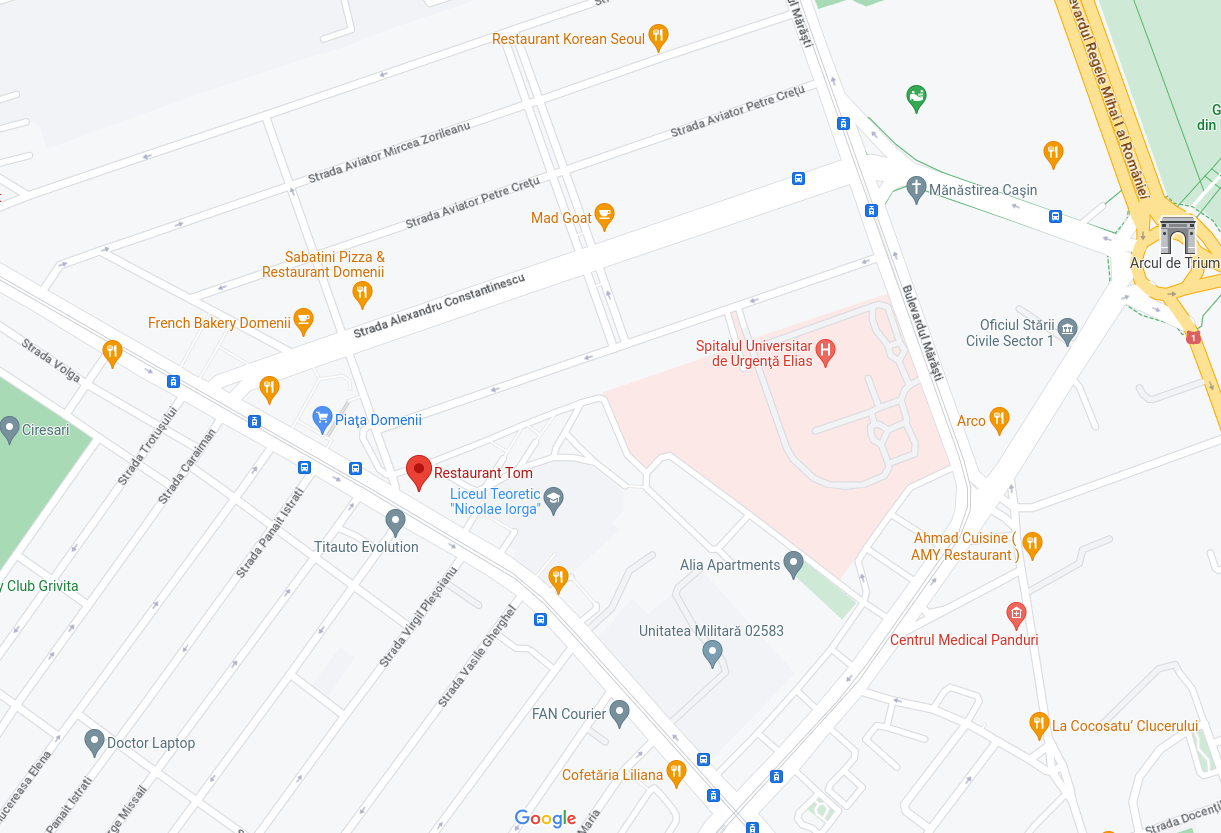
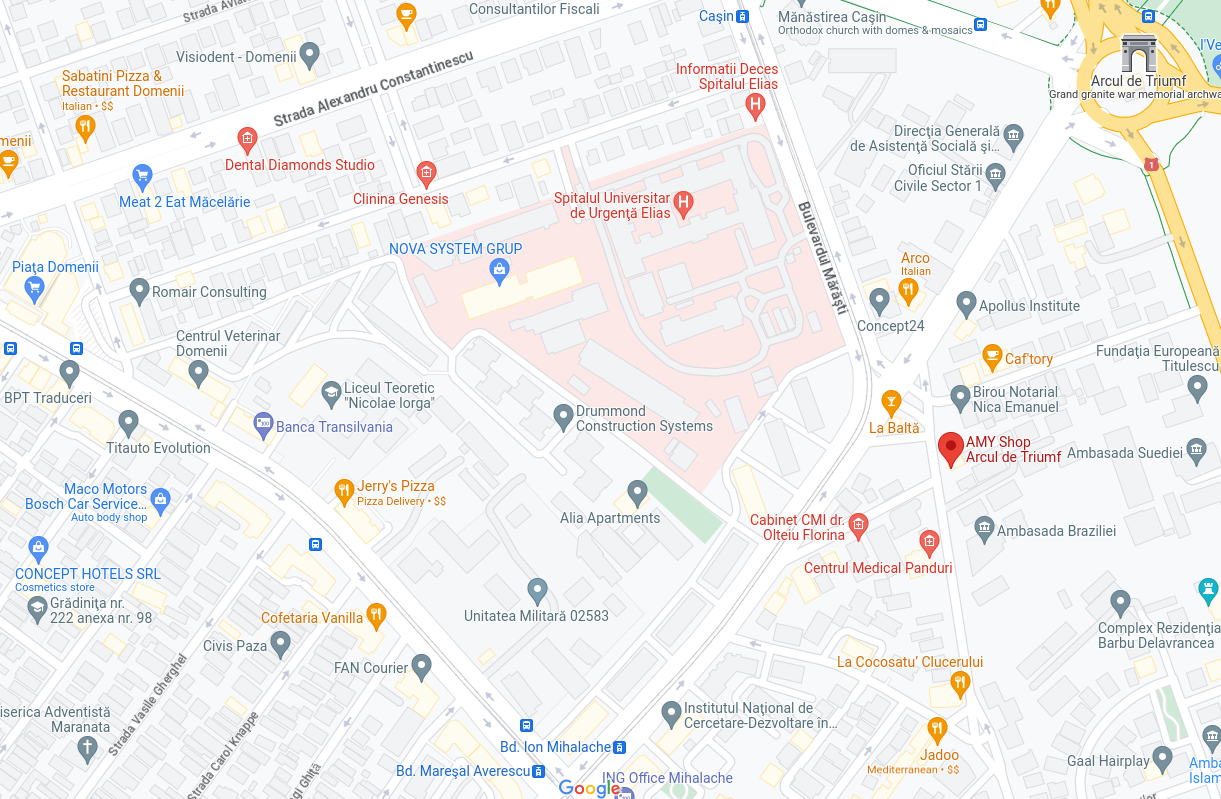
2023-05-20T00:55:33 CEST

diff --git a/site/index.md b/site/index.md
@@ -66,14 +66,14 @@ Registration closed. Please use our [contact form](/contact/) to message us and 
 
 <figure>
 
-<a href="https://www.google.com/maps/place/Restaurant+Tom/@44.4659986,26.0675864,16.75z/data=!4m6!3m5!1s0x40b202187e9a829f:0xf5af3b5c6dabe5bd!8m2!3d44.4651256!4d26.0685737!16s%2Fg%2F11c1qz3w_z"><img src="/images/map.png" alt="Restaurant Tom, Bulevardul Ion Mihalache 128, București"></a>
+<a href="https://www.google.com/maps/place/AMY+Shop+Tobacco+Shop/@44.465086,26.0704614,17z/data=!4m6!3m5!1s0x40b203b4364923db:0x56792edac4e90d44!8m2!3d44.4644937!4d26.0764006!16s%2Fg%2F11jggbp0_l"><img src="/images/map.png" alt="AMY Shop and Restaurant, Strada Clucerului 85, București"></a>
 
-<figcaption><a href="https://www.google.com/maps/place/Restaurant+Tom/@44.4659986,26.0675864,16.75z/data=!4m6!3m5!1s0x40b202187e9a829f:0xf5af3b5c6dabe5bd!8m2!3d44.4651256!4d26.0685737!16s%2Fg%2F11c1qz3w_z">Restaurant Tom<br>
-Bulevardul Ion Mihalache 128, București</a>
+<figcaption><a href="https://www.google.com/maps/place/AMY+Shop+Tobacco+Shop/@44.465086,26.0704614,17z/data=!4m6!3m5!1s0x40b203b4364923db:0x56792edac4e90d44!8m2!3d44.4644937!4d26.0764006!16s%2Fg%2F11jggbp0_l">Restaurant Tom<br>
+Strada Clucerului 85, București</a>
 </figcaption>
 </figure>
 
-The venue is located near the Tram Stop on Piata Domenii (Line 24 and 45), Bus Station Piata Domenii (Line 205,282,381), the closest Metro Station is 1 Mai (Green Line M4) which is about a 10-15 minute walk.
+The venue is located near the Tram Stop on Caşin (Line 41), Bus Station Arcul de Triumf (Line 361), the closest Metro Station is 1 Mai (Green Line M4) which is about a 10-15 minute walk.
 
 ### Public Transport
 
